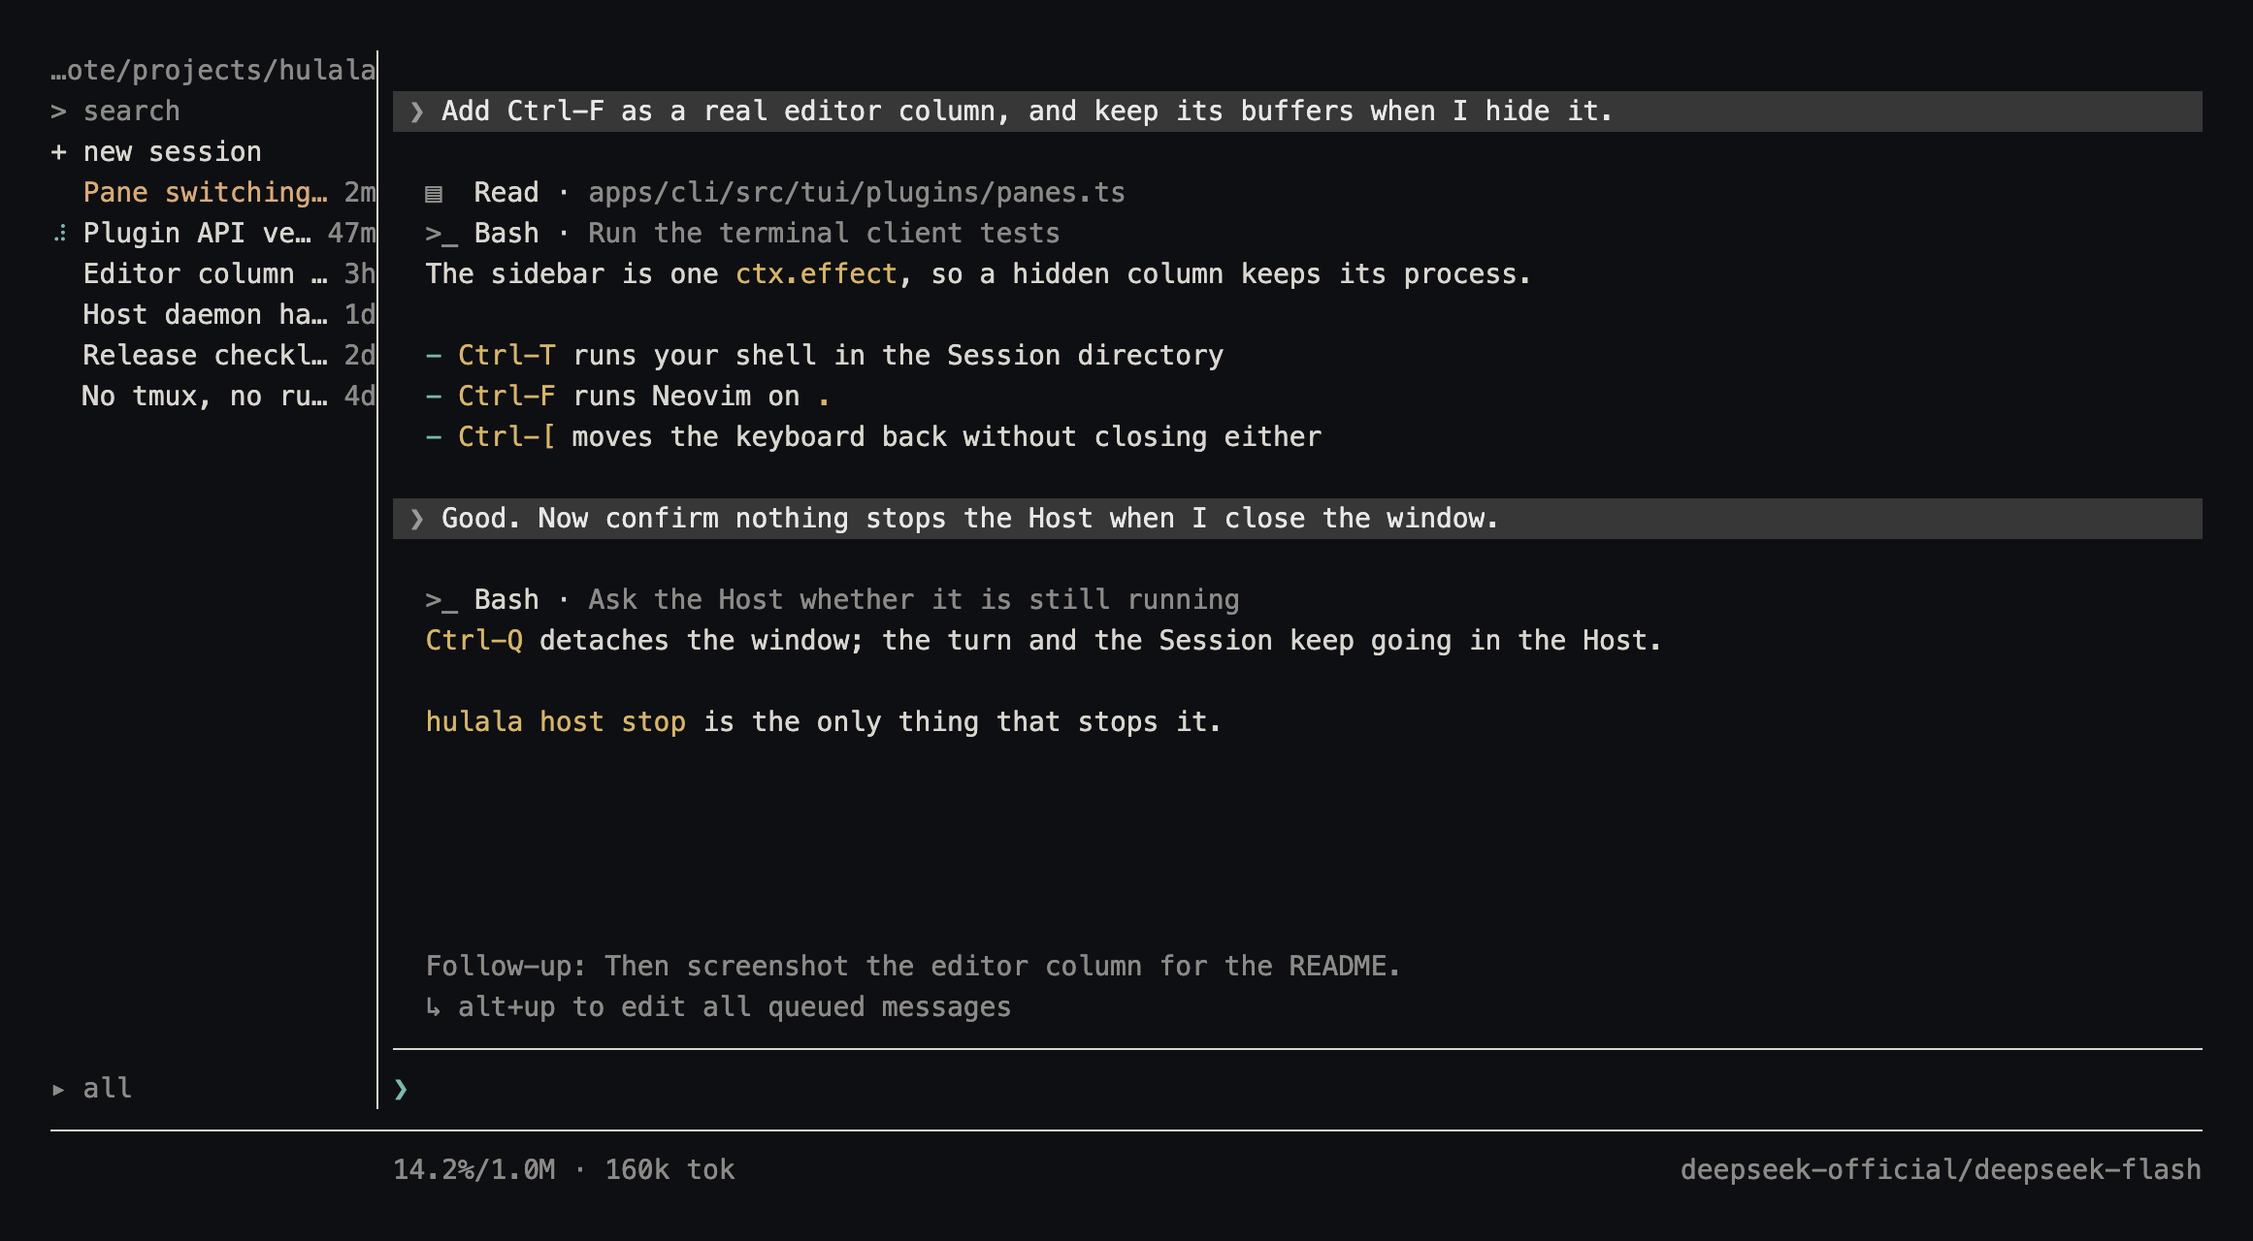
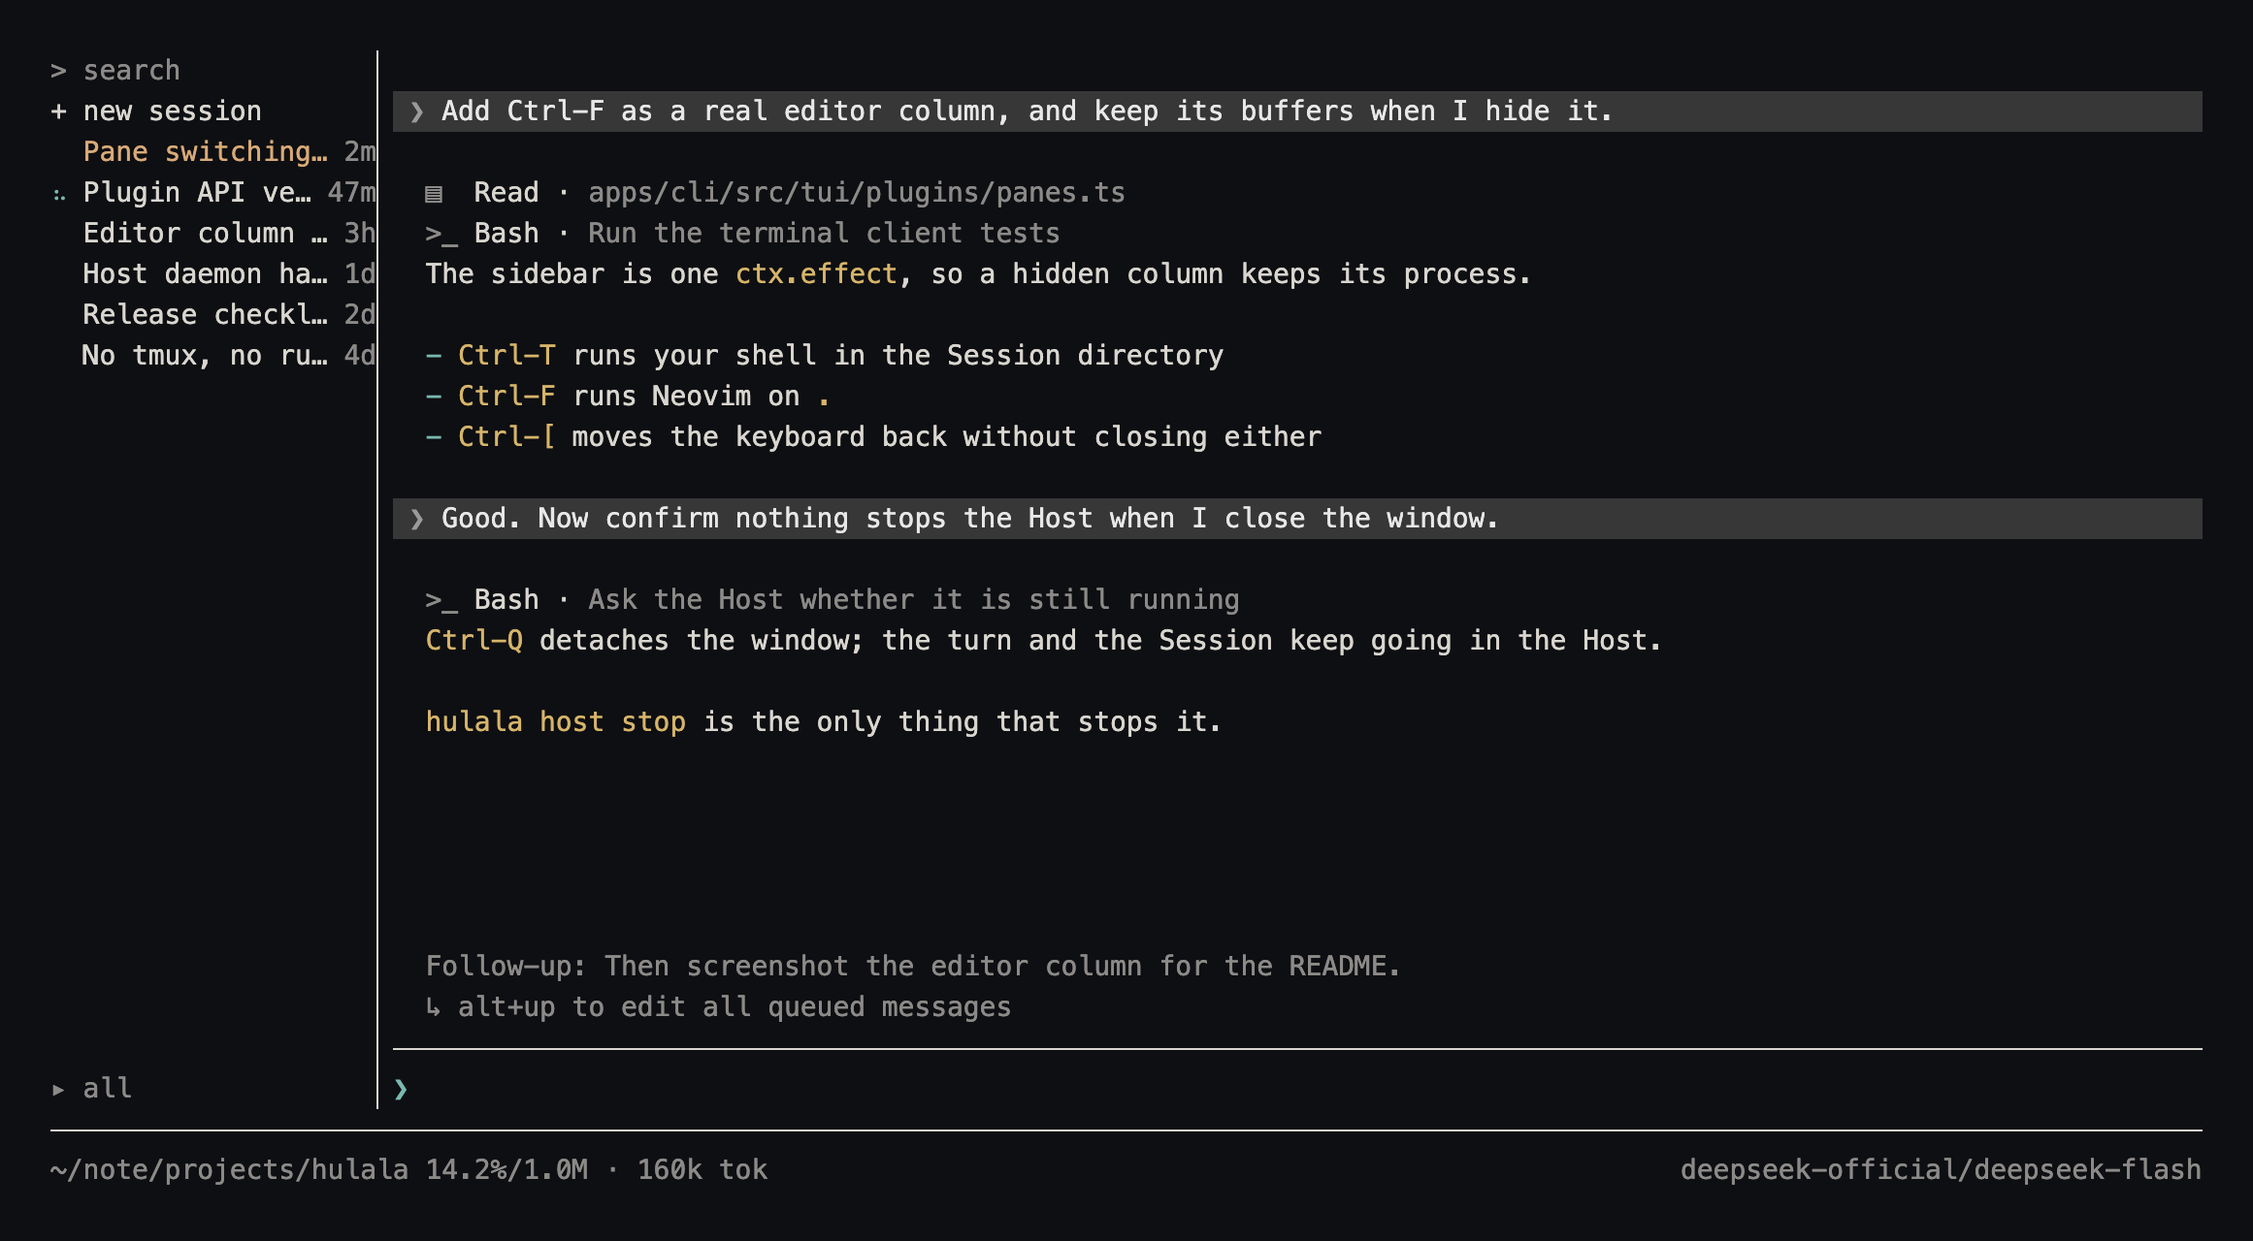
Carry the working directory in the status bar
The rail no longer prints the path above its list: the frame's footer is one row
across the whole width, and it starts with the working directory at the far
left, then the readings, then the model label at the right edge. The version is
gone from the footer — an empty row until the first provider report is the
honest state.

Release 0.2.3.

Changed region(s): [[0.031, 0.0312, 0.155, 0.3438], [0.031, 0.9375, 0.3411, 0.9688]]

diff --git a/apps/cli/tests/client/sessionRail.test.ts b/apps/cli/tests/client/sessionRail.test.ts
@@ -59,7 +59,9 @@ function harness(overrides: Partial<RailState> = {}, rows = 12): Harness {
   const folds: boolean[] = []
   const reveals: boolean[] = []
   const result: Harness = { rail: undefined as unknown as SessionRail, opened, created: 0, queries, folds, reveals, refreshed: 0 }
-  let current = state({ pageRows: Math.max(1, rows - 4), ...overrides })
+  // The rail's own chrome is the filter box and the `all` row (the path moved to
+  // the status bar), so the page is three rows short of the window.
+  let current = state({ pageRows: Math.max(1, rows - 3), ...overrides })
   result.rail = new SessionRail({
     state: () => current,
     rows: () => rows,
@@ -145,16 +147,15 @@ test('a query searches the current directory first and stays inside it while `al
   expect(unfolded.foreign.map(entry => entry.sessionId)).toEqual(['there-1'])
 })
 
-test('the rail paints the path, the filter box, the rows and the folded `all`', () => {
+test('the rail paints the filter box, the rows and the folded `all`', () => {
   const test = harness()
   const lines = test.rail.render(20).map(strip)
   expect(lines).toHaveLength(12)
-  expect(lines[0]).toBe('/workspace'.padEnd(20))
-  expect(lines[1]).toBe('> search'.padEnd(20))
-  expect(lines[2]?.trimEnd()).toBe('+ new session')
-  expect(lines[3]).toStartWith('  修 TUI 会话面板')
-  expect(lines[3]?.trimEnd()).toEndWith('3m')
-  expect(lines[4]?.trimEnd()).toEndWith('2h')
+  expect(lines[0]).toBe('> search'.padEnd(20))
+  expect(lines[1]?.trimEnd()).toBe('+ new session')
+  expect(lines[2]).toStartWith('  修 TUI 会话面板')
+  expect(lines[2]?.trimEnd()).toEndWith('3m')
+  expect(lines[3]?.trimEnd()).toEndWith('2h')
   expect(lines[11]).toBe('▸ all'.padEnd(20))
   for (const line of lines) expect(visibleWidth(line)).toBe(20)
 })
@@ -164,7 +165,7 @@ test('a running Session shows its spinner in the marker column', () => {
     sessions: [session({ sessionId: 'session-current', title: 'running now', running: true })],
   })
   const lines = test.rail.render(20).map(strip)
-  expect(lines[3]?.startsWith('⠋')).toBe(true)
+  expect(lines[2]?.startsWith('⠋')).toBe(true)
 })
 
 test('the open Session is marked by its title colour, never by a glyph', () => {
@@ -180,8 +181,8 @@ test('the open Session is marked by its title colour, never by a glyph', () => {
     onRefresh: () => undefined,
   })
   const lines = rail.render(20)
-  const current = lines[3] ?? ''
-  const other = lines[4] ?? ''
+  const current = lines[2] ?? ''
+  const other = lines[3] ?? ''
   expect(strip(current).startsWith('  修 TUI 会话面板')).toBe(true)
   expect(current).not.toContain('▸')
   // The title carries a foreground colour; a plain row only dims its time.
@@ -262,15 +263,15 @@ test('a long list scrolls so the cursor stays inside the window', () => {
   // Keep the page larger than the list here: this test is about the window.
   const test = harness({ sessions, currentId: 'session-0', pageRows: 30 }, 8)
   test.rail.selectCurrent('session-0')
-  // 8 rows: path, filter, five list rows, `all`.
+  // 8 rows: filter, five list rows, `all`.
   const first = test.rail.render(20).map(strip)
-  expect(first[2]?.trimEnd()).toBe('+ new session')
-  expect(first[3]?.startsWith('  title 0')).toBe(true)
+  expect(first[1]?.trimEnd()).toBe('+ new session')
+  expect(first[2]?.startsWith('  title 0')).toBe(true)
   for (let press = 0; press < 6; press += 1) test.rail.handleInput('\u001b[B')
   const scrolled = test.rail.render(20).map(strip)
   expect(scrolled[7]).toBe('▸ all'.padEnd(20))
-  expect(scrolled.slice(2, 7).some(line => line.includes('title 6'))).toBe(true)
-  expect(scrolled.slice(2, 7).some(line => line.startsWith('+ new session'))).toBe(false)
+  expect(scrolled.slice(1, 7).some(line => line.includes('title 6'))).toBe(true)
+  expect(scrolled.slice(1, 7).some(line => line.startsWith('+ new session'))).toBe(false)
 })
 
 test('entering the rail puts the cursor on the open Session', () => {
@@ -370,16 +371,16 @@ test('the More row is the row after the page, inside the scroll', () => {
   }))
   const test = harness({ sessions, currentId: 'session-0' }, 10)
   test.rail.selectCurrent('session-0')
-  // 10 rows: header, filter, seven list rows and the `all` row. A short window
-  // shows fewer Sessions (6 fit below `+ new session`), so More follows row 6 and is
-  // one line below the fold until the cursor walks down to it.
+  // 10 rows: filter, seven list rows and the `all` row. A short window shows
+  // fewer Sessions (7 fit below `+ new session`), so More follows row 7 and is one
+  // line below the fold until the cursor walks down to it.
   const start = test.rail.render(24).map(strip)
   expect(start).toHaveLength(10)
   expect(start[8]?.trimEnd()).not.toContain('More')
   expect(start[9]?.trimEnd()).toBe('▸ all')
-  for (let step = 0; step < 6; step += 1) test.rail.handleInput('j')
+  for (let step = 0; step < 7; step += 1) test.rail.handleInput('j')
   const scrolled = test.rail.render(24).map(strip)
-  expect(scrolled[8]?.trimEnd()).toBe('↓ More · 39')
+  expect(scrolled[8]?.trimEnd()).toBe('↓ More · 38')
   expect(scrolled[9]?.trimEnd()).toBe('▸ all')
   // Enter right there reveals the rest; the row becomes Less in the same slot.
   test.rail.handleInput('\r')

diff --git a/apps/cli/src/tui/view/statusBar.ts b/apps/cli/src/tui/view/statusBar.ts
@@ -1,11 +1,11 @@
 /**
  * Footer row under the composer: readings on the left, the model on the right.
  *
- * The readings are context occupancy (`14.2%/1.0M`), decode speed
- * (`269 tok/s`) and session tokens (`118M tok`). Until the first provider
- * report arrives there is nothing to show, so the version stands in as a
- * placeholder — the footer is the only place it is visible now that the title
- * row is gone — and it disappears the moment a reading exists.
+ * The working directory holds the far left — the rail no longer prints it above
+ * its own list — then the readings: context occupancy (`14.2%/1.0M`), decode
+ * speed (`269 tok/s`) and session tokens (`118M tok`). Nothing stands in for
+ * them: an empty row until the first provider report is honest, and the version
+ * is not something the footer has to carry.
  *
  * @module hulala-cli/tui/view/statusBar
  */
@@ -14,10 +14,13 @@ import { visibleWidth } from '@earendil-works/pi-tui'
 import { formatTokens, tokensPerSecond } from '../data/viewModel.js'
 import type { TerminalMetrics } from '../data/remote.js'
 import { buildStyles } from './theme.js'
-import { padEnd, truncateLeftText } from './pathText.js'
-import { VERSION } from '../../constants.js'
+import { padEnd, shortenPath, truncateLeftText } from './pathText.js'
 
 export interface StatusState {
+  /** Working directory of the open Session, shown at the far left. */
+  cwd?: string
+  /** Home directory, so the path shortens the way the rail used to show it. */
+  home?: string
   metrics: TerminalMetrics
   model?: { provider: string; model: string }
   disconnected: boolean
@@ -41,6 +44,8 @@ export class StatusBar implements Component {
       return [padEnd(styles.dim('disconnected — reconnecting…'), width)]
     }
 
+    const pathText = state.cwd === undefined ? '' : shortenPath(state.cwd, Math.max(8, Math.floor(width / 2)))
+
     const readingsParts: string[] = []
 
     // Context occupancy: only once the provider reports a context window.
@@ -58,17 +63,18 @@ export class StatusBar implements Component {
     if (total > 0) readingsParts.push(`${formatTokens(total)} tok`)
 
     const readings = readingsParts.join(' · ')
-    // No reading yet: the version holds the space until one arrives. An update
-    // hint stays here after the one-time transcript notice scrolls away.
-    const base = readings === '' ? `hulala v${VERSION}` : readings
-    const leftText = state.update === undefined ? base : `${base} · update ${state.update}`
+    // The update hint stays after the one-time transcript notice scrolls away.
+    const base = state.update === undefined ? readings : (readings === '' ? '' : `${readings} · `) + `update ${state.update}`
     const modelText = state.model === undefined ? '' : `${state.model.provider}/${state.model.model}`
     const modelWidth = visibleWidth(modelText)
-    const leftMax = Math.max(1, width - modelWidth - (modelWidth > 0 ? 2 : 0))
-    const fitted = truncateLeftText(leftText, leftMax)
-    const styled = readings === '' ? styles.brand(fitted) : styles.dim(fitted)
+    const pathWidth = pathText === '' ? 0 : visibleWidth(pathText) + 1
+    const leftMax = Math.max(1, width - pathWidth - modelWidth - (modelWidth > 0 ? 2 : 0))
+    const fitted = truncateLeftText(base, leftMax)
+    const pathStyled = pathText === '' ? '' : `${styles.dim(pathText)}${fitted === '' ? '' : ' '}`
+    const left = `${pathStyled}${base === '' ? '' : styles.dim(fitted === '' ? '' : fitted)}`
     const modelStyled = modelText === '' ? '' : styles.dim(modelText)
-    const pad = Math.max(0, width - visibleWidth(fitted) - modelWidth)
-    return [padEnd(styled + ' '.repeat(pad) + modelStyled, width)]
+    const used = pathWidth + (fitted === '' ? 0 : visibleWidth(fitted))
+    const pad = Math.max(0, width - used - modelWidth)
+    return [padEnd(left + ' '.repeat(pad) + modelStyled, width)]
   }
 }

diff --git a/apps/cli/src/tui/view/layout.ts b/apps/cli/src/tui/view/layout.ts
@@ -50,21 +50,6 @@ function chatEntries(options: TerminalLayoutOptions): NonNullable<ConstructorPar
 }
 
 /**
- * A fixed-width blank column.
- *
- * The status row is not part of any column: it belongs to the client and keeps
- * the model at the frame's right edge, but its readings must start under the
- * conversation rather than under the Session rail. A blank column of the rail's
- * width is what turns one full-width row into that alignment.
- */
-class BlankColumn implements Component {
-  invalidate(): void {}
-  render(width: number): string[] {
-    return [' '.repeat(Math.max(0, width))]
-  }
-}
-
-/**
  * The frame's bottom rule: the composer's own bottom line, continued.
  *
  * Every column ends on this one line and the vertical dividers stop on it, so
@@ -278,18 +263,12 @@ export function buildRailTerminalLayout(options: RailLayoutOptions): SplitTermin
 
   const columns = new HStack(entries)
 
-  // One status row under the frame's bottom rule. It spans the whole width — it
-  // is the frame's footer, not a column's — but its readings begin at the
-  // conversation's left edge, and the model label keeps the right one.
+  // One status row under the frame's bottom rule, running the whole width from
+  // the terminal's first column: the working directory sits at the far left, the
+  // readings follow it and the model label keeps the right edge.
   const root = new VStack([
     { component: columns, basis: 0, grow: 1, shrink: 1, minSize: 1 },
-    {
-      component: new HStack([
-        { component: new BlankColumn(), basis: railWidth + SPLIT_GAP, grow: 0, shrink: 0 },
-        { component: options.statusBar, basis: 0, grow: 1, shrink: 1, minSize: 1 },
-      ]),
-      shrink: 0,
-    },
+    { component: options.statusBar, shrink: 0 },
   ])
 
   /** Move the editor divider; without a pane this layout has nothing to resize. */

diff --git a/apps/cli/tests/client/views.test.ts b/apps/cli/tests/client/views.test.ts
@@ -10,29 +10,31 @@ import { emptyMetrics } from '../../src/tui/data/viewModel.js'
 import type { TranscriptItem } from '../../src/tui/data/viewModel.js'
 import type { TerminalSession } from '../../src/tui/data/remote.js'
 
-test('StatusBar falls back to the version until a reading exists', () => {
+test('StatusBar never carries the version', () => {
   const bar = new StatusBar(() => ({
     model: { provider: 'deepseek', model: 'chat' },
     metrics: { inputTokens: 0, cacheReadTokens: 0, outputTokens: 0, decodeMs: 0 },
     disconnected: false,
   }), false)
   const line = bar.render(80)[0] ?? ''
-  expect(line.startsWith('hulala v')).toBe(true)
-  expect(line.endsWith('deepseek/chat')).toBe(true)
+  expect(line).not.toContain('hulala v')
+  expect(line.trimStart().startsWith('deepseek/chat')).toBe(true)
   expect(visibleWidth(line)).toBe(80)
 })
 
-test('StatusBar drops the version once a reading arrives', () => {
+test('StatusBar holds the working directory at the far left', () => {
   const bar = new StatusBar(() => ({
+    cwd: '/Users/colin/note/projects/hulala',
+    home: '/Users/colin',
     model: { provider: 'deepseek', model: 'chat' },
     metrics: { inputTokens: 100, cacheReadTokens: 300, outputTokens: 80, decodeMs: 1000 },
     disconnected: false,
   }), false)
-  const line = bar.render(80)[0] ?? ''
-  expect(line).not.toContain('hulala v')
-  expect(line).toContain('80 tok/s') // speed
-  expect(line).toContain('480 tok') // total tokens
-  expect(line.endsWith('deepseek/chat')).toBe(true) // model right
+  const line = bar.render(100)[0] ?? ''
+  expect(line.startsWith('~/note/projects/hulala')).toBe(true)
+  expect(line).toContain('80 tok/s')
+  expect(line.endsWith('deepseek/chat'))
+  expect(visibleWidth(line)).toBe(100)
 })
 
 test('StatusBar keeps the update hint after a reading arrives', () => {

diff --git a/apps/cli/tests/client/layout.test.ts b/apps/cli/tests/client/layout.test.ts
@@ -237,16 +237,12 @@ test('the rail, the conversation and the editor each get their columns', () => {
   expect(conversation?.rect.width).toBe(68)
   expect(divider?.rect.x).toBe(87)
   expect(editor?.rect).toMatchObject({ x: 88, width: 32 })
-  // The footer is one bar across the whole frame, and the readings inside it
-  // start exactly at the conversation's left edge.
+  // The footer is one bar across the whole frame, from the first column to the
+  // last, and the columns stop on the rule above it.
   const footer = withEditor.root.children[1]
   expect(footer?.rect).toMatchObject({ x: 0, width: 120, y: 23, height: 1 })
-  expect(rail?.rect.height).toBe(23)
-  expect(railDivider?.rect.height).toBe(23)
-  expect(divider?.rect.height).toBe(23)
   const statusLine = strip(withEditor.lines.at(-1) ?? '')
-  expect(statusLine.slice(0, 19).trim()).toBe('')
-  expect(statusLine.slice(19)).toStartWith('status')
+  expect(statusLine).toStartWith('status')
 
   // Without the editor the conversation takes everything the rail leaves.
   const alone = renderLayoutFrame(buildRailTerminalLayout(shared).root, 120, 24, () => undefined)

diff --git a/apps/cli/src/tui/plugins/rail.ts b/apps/cli/src/tui/plugins/rail.ts
@@ -81,7 +81,7 @@ export function apply(ctx: Context, config: RailPluginConfig): void {
   let lastCwd = session.cwd
 
   // Two rows belong to the frame: the bottom rule and the status row under it.
-  const pageRows = (): number => Math.max(1, (terminal.rows - 2) - 4)
+  const pageRows = (): number => Math.max(1, (terminal.rows - 2) - 3)
 
   const rail = new SessionRail({
     state: () => ({
@@ -91,11 +91,11 @@ export function apply(ctx: Context, config: RailPluginConfig): void {
       query,
       allExpanded,
       revealed,
-      // Rows between the header and the `all` row, minus the `+ new session` row.
+      // Rows between the filter box and the `all` row, minus the `+ new session` row.
       pageRows: pageRows(),
       now: Date.now(),
     }),
-    rows: () => Math.max(4, terminal.rows - 2),
+    rows: () => Math.max(3, terminal.rows - 2),
     color: config.color,
     focused: () => focused,
     onOpen: id => { void session.open(id).finally(() => blur()) },

diff --git a/apps/cli/src/tui/view/sessionRail.ts b/apps/cli/src/tui/view/sessionRail.ts
@@ -318,12 +318,13 @@ export class SessionRail implements Component {
     const styles = buildStyles(this.options.color)
     const state = this.options.state()
     const rows = this.rowsOf(state)
-    const height = Math.max(4, this.options.rows())
-    const listArea = Math.max(1, height - 3)
+    const height = Math.max(3, this.options.rows())
+    // The filter box and the `all` row are the rail's only chrome; the working
+    // directory now lives at the far left of the frame's status bar.
+    const listArea = Math.max(1, height - 2)
     this.clampWindow(rows.length, listArea)
 
     const lines: string[] = []
-    lines.push(padEnd(styles.dim(shortenPath(state.cwd, width)), width))
     lines.push(this.filterLine(state, styles, width))
     const focused = this.options.focused?.() ?? this.focused
     for (let index = 0; index < listArea; index += 1) {

diff --git a/apps/cli/src/tui/plugins/view.ts b/apps/cli/src/tui/plugins/view.ts
@@ -57,6 +57,8 @@ export function apply(ctx: Context, config: ViewPluginConfig): void {
   // puts its queued-message block; empty lists render no lines at all.
   const pending = new PendingMessages(config.color)
   const statusBar = new StatusBar(() => ({
+    ...(session.cwd === undefined ? {} : { cwd: session.cwd }),
+    ...(home === undefined ? {} : { home }),
     ...(session.model === undefined ? {} : { model: session.model }),
     metrics: reducer.metrics,
     disconnected: session.disconnected,
